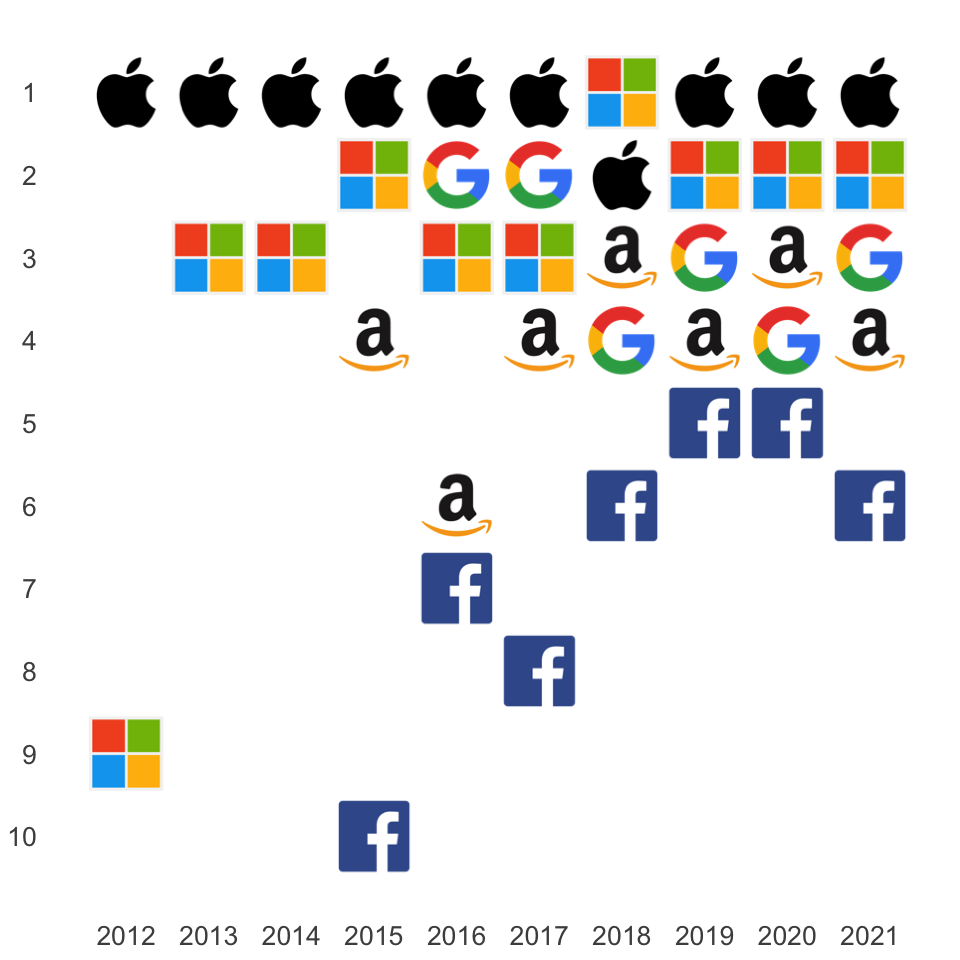
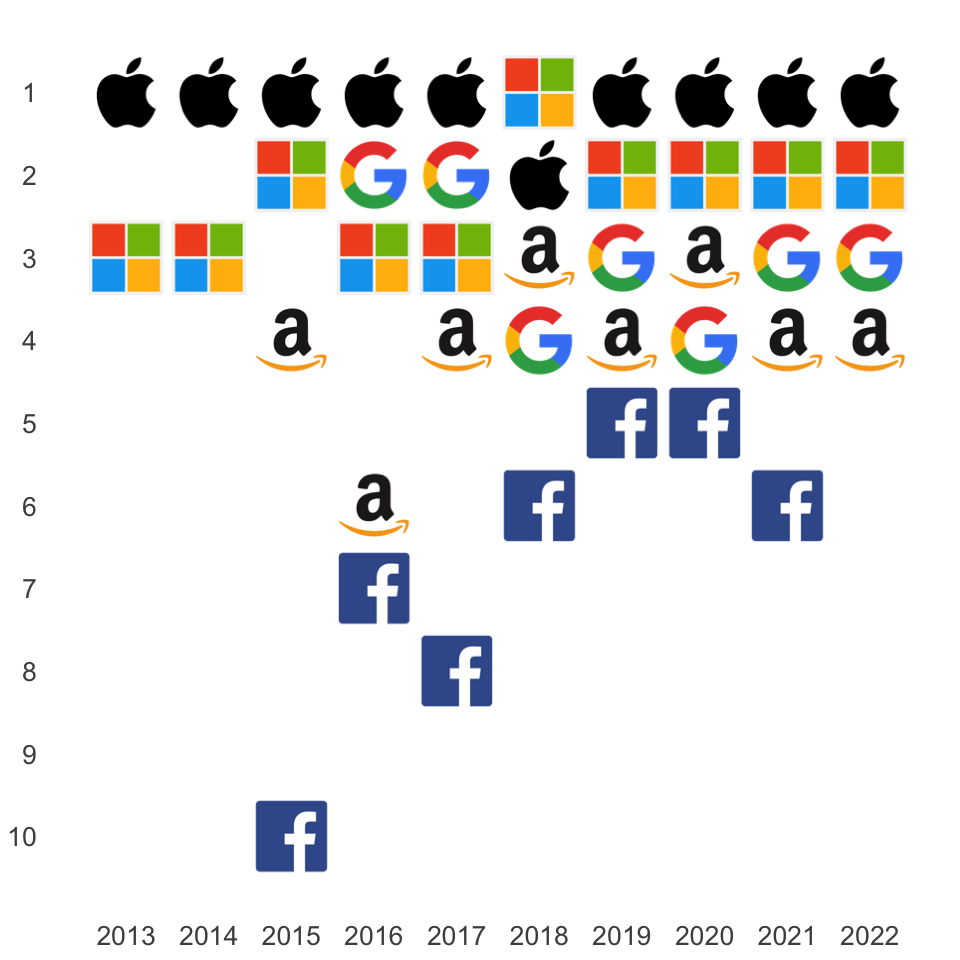
Fast forward to 2013-2022

diff --git a/README.md b/README.md
@@ -1,7 +1,7 @@
 Digitalization - Pipelines to Platforms
 ================
 
-# Rise of Digital Platforms Over 2012 to 2021
+# Rise of Digital Platforms Over 2013 to 2022
 
 Based on data in [List of public corporations by market capitalization @
 Wikipedia](https://en.wikipedia.org/wiki/List_of_public_corporations_by_market_capitalization)
@@ -40,8 +40,8 @@ tenyearsafter<-function(years, ranks, names, folder) {
     ) +
     
     scale_x_continuous(
-      limits = c(2011.5,2021.5),
-      breaks = seq(2012,2021,1)
+      limits = c(2012.5,2022.5),
+      breaks = seq(2013,2022,1)
     ) +
     scale_y_continuous(
       limits = c(0.5,10.5),
@@ -66,7 +66,7 @@ tenyearsafter<-function(years, ranks, names, folder) {
 # Rise of Digital Platforms / Companies
 
 Top 10 publicly traded companies worldwide wrt market capitalization and
-shifts over the years 2012 - 2021.
+shifts over the years 2013 - 2022.
 
 ``` r
 tenyearsafter(mcs$Year,
@@ -185,8 +185,8 @@ tenyearsafter(mcsgafam$Year,
 # Rise of Digital Platforms / Industries
 
 In 2007 the Oil & Gas industry was represented by 5 companies among the
-top 10 in the ranking. In 2021 (end of year) the Information Technology
-industry takes 8 positions among the top 10.
+top 10 in the ranking. In 2022 (end of year) the Information Technology
+industry takes 5 positions among the top 10.
 
 ``` r
 tenyearsafter(mcs$Year,
@@ -203,11 +203,11 @@ tenyearsafter(mcs$Year,
 
 # Rise of Digital Platforms / Nations
 
-By the end of 2021 the United States alone take the first eight places
-in the ranking.
+By the end of 2022 the United States alone take the first nine places in
+the ranking.
 
-Meanwhile China holds two positions in the top 10 with the platform
-companies Tencent and TSMC (Taiwan Semiconductor Manufacturing Company).
+Meanwhile China holds one positions in the top 10 with the platform
+company Tencent.
 
 ``` r
 tenyearsafter(mcs$Year,
